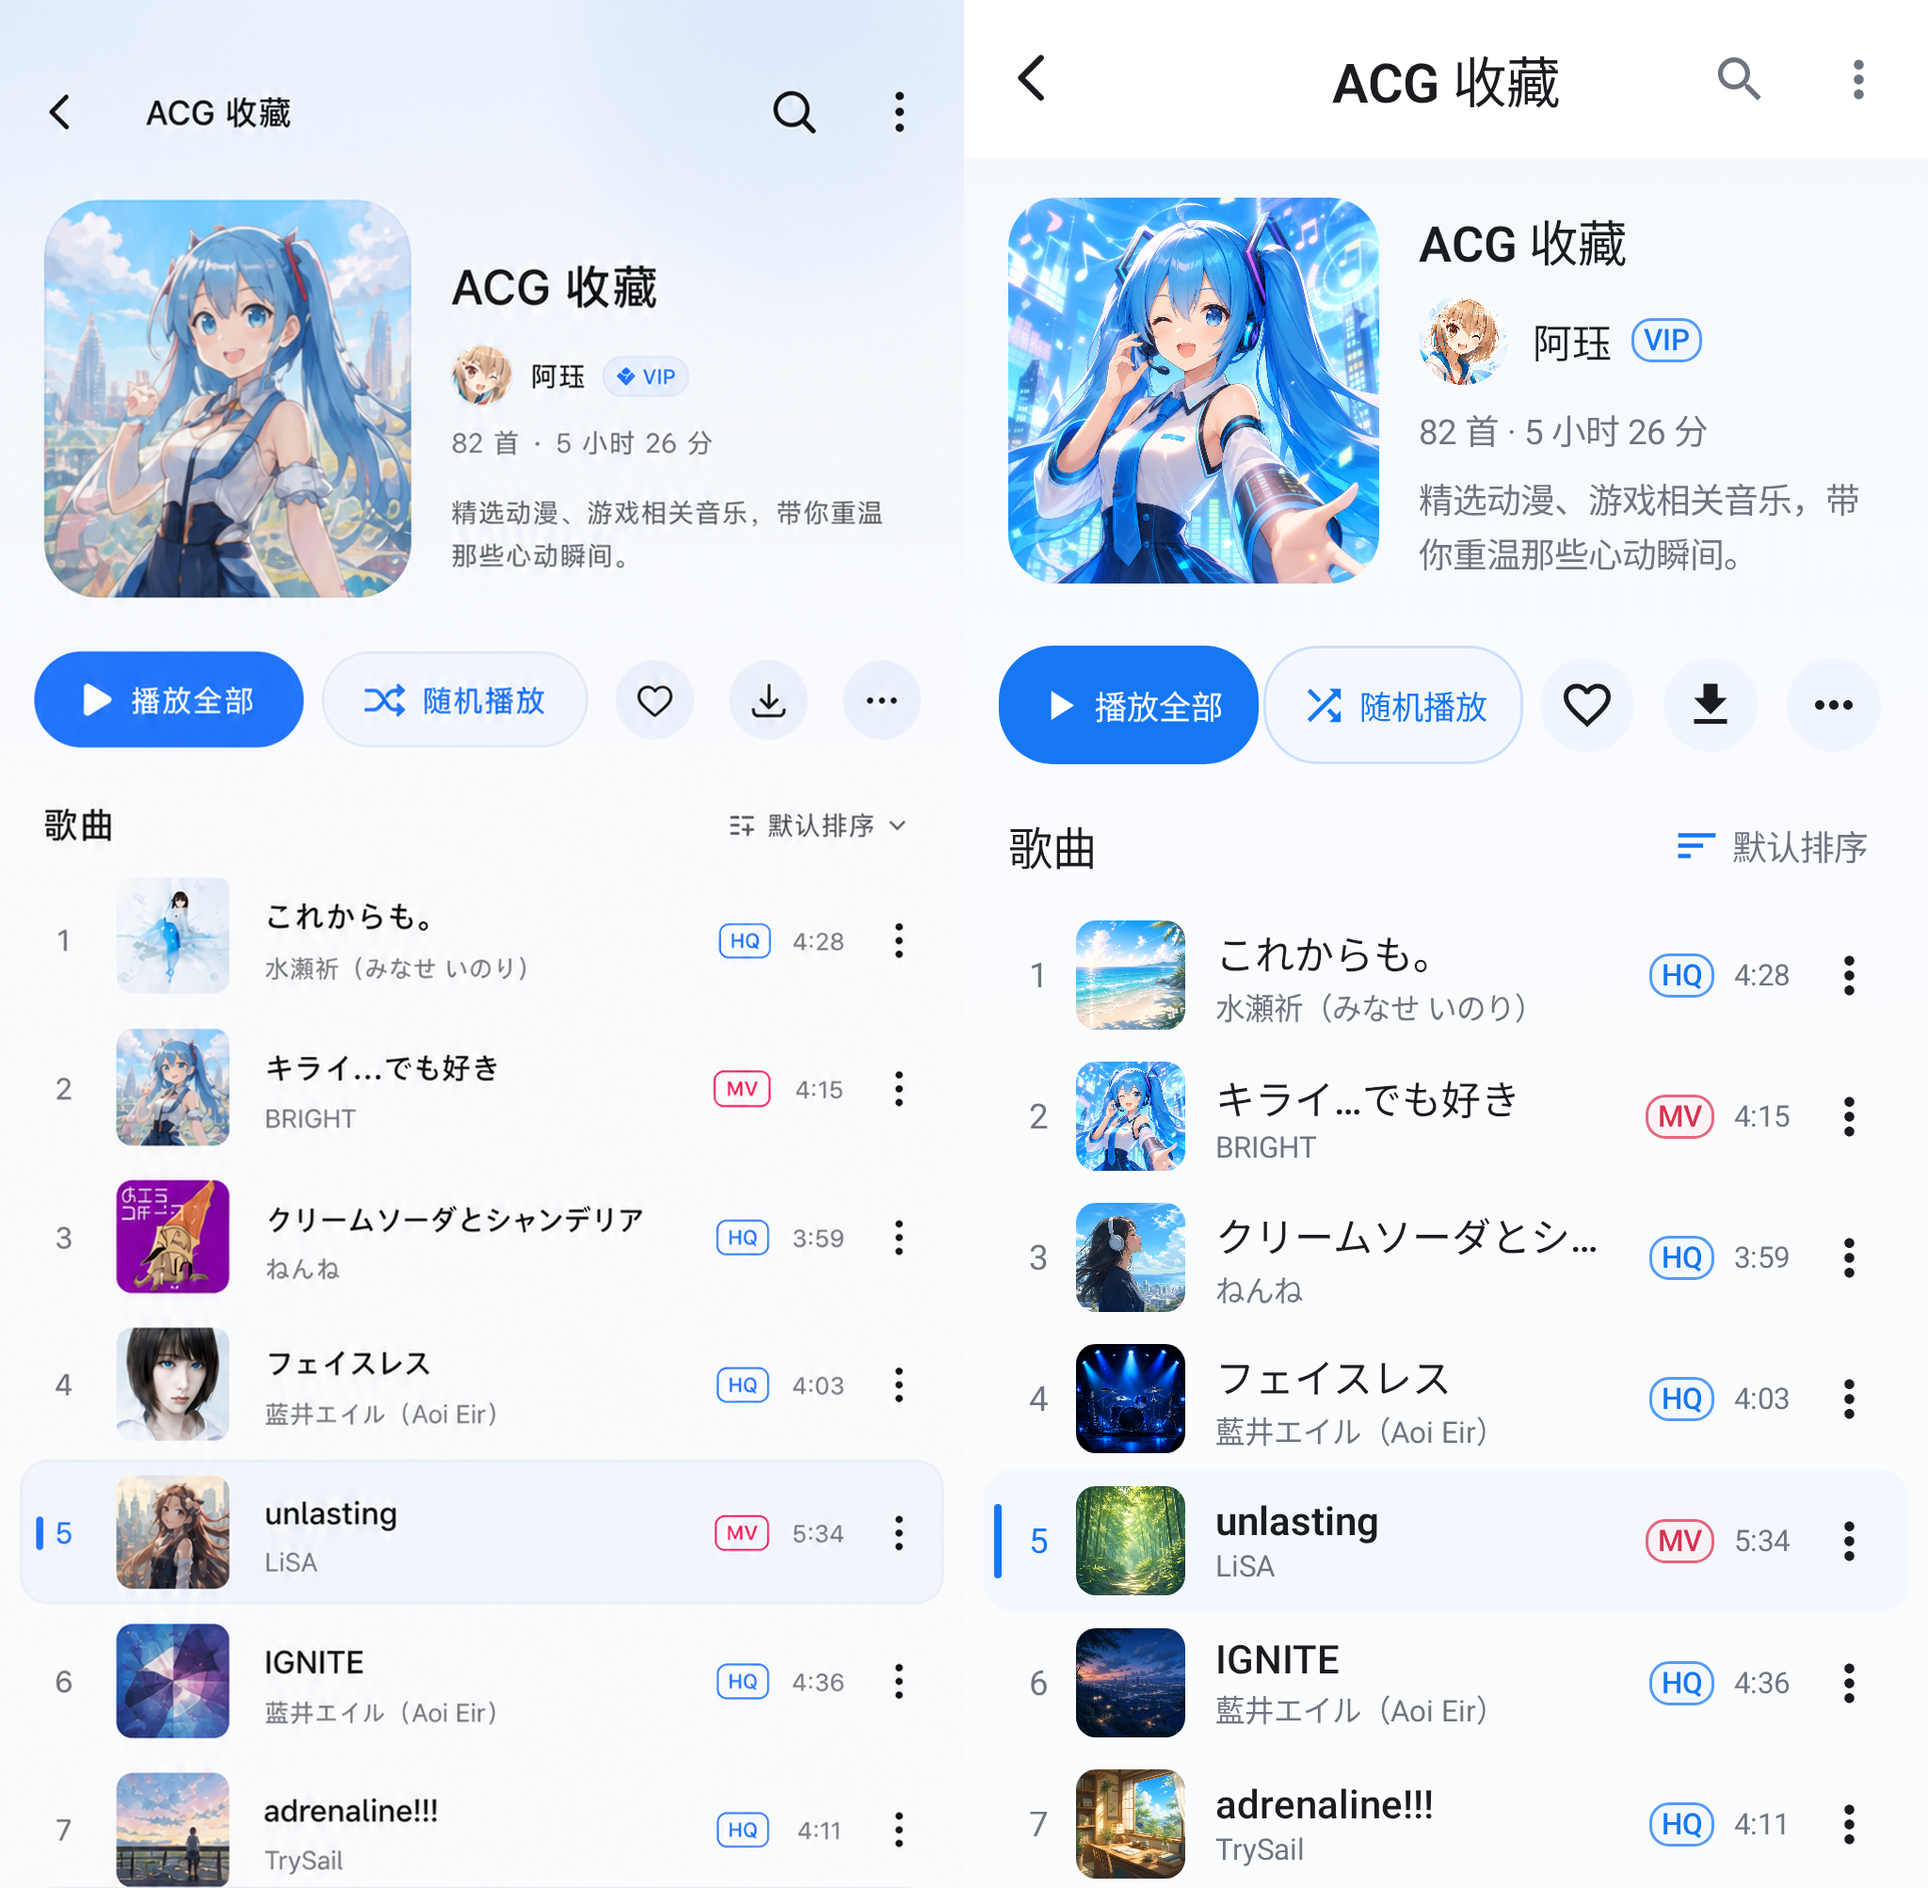
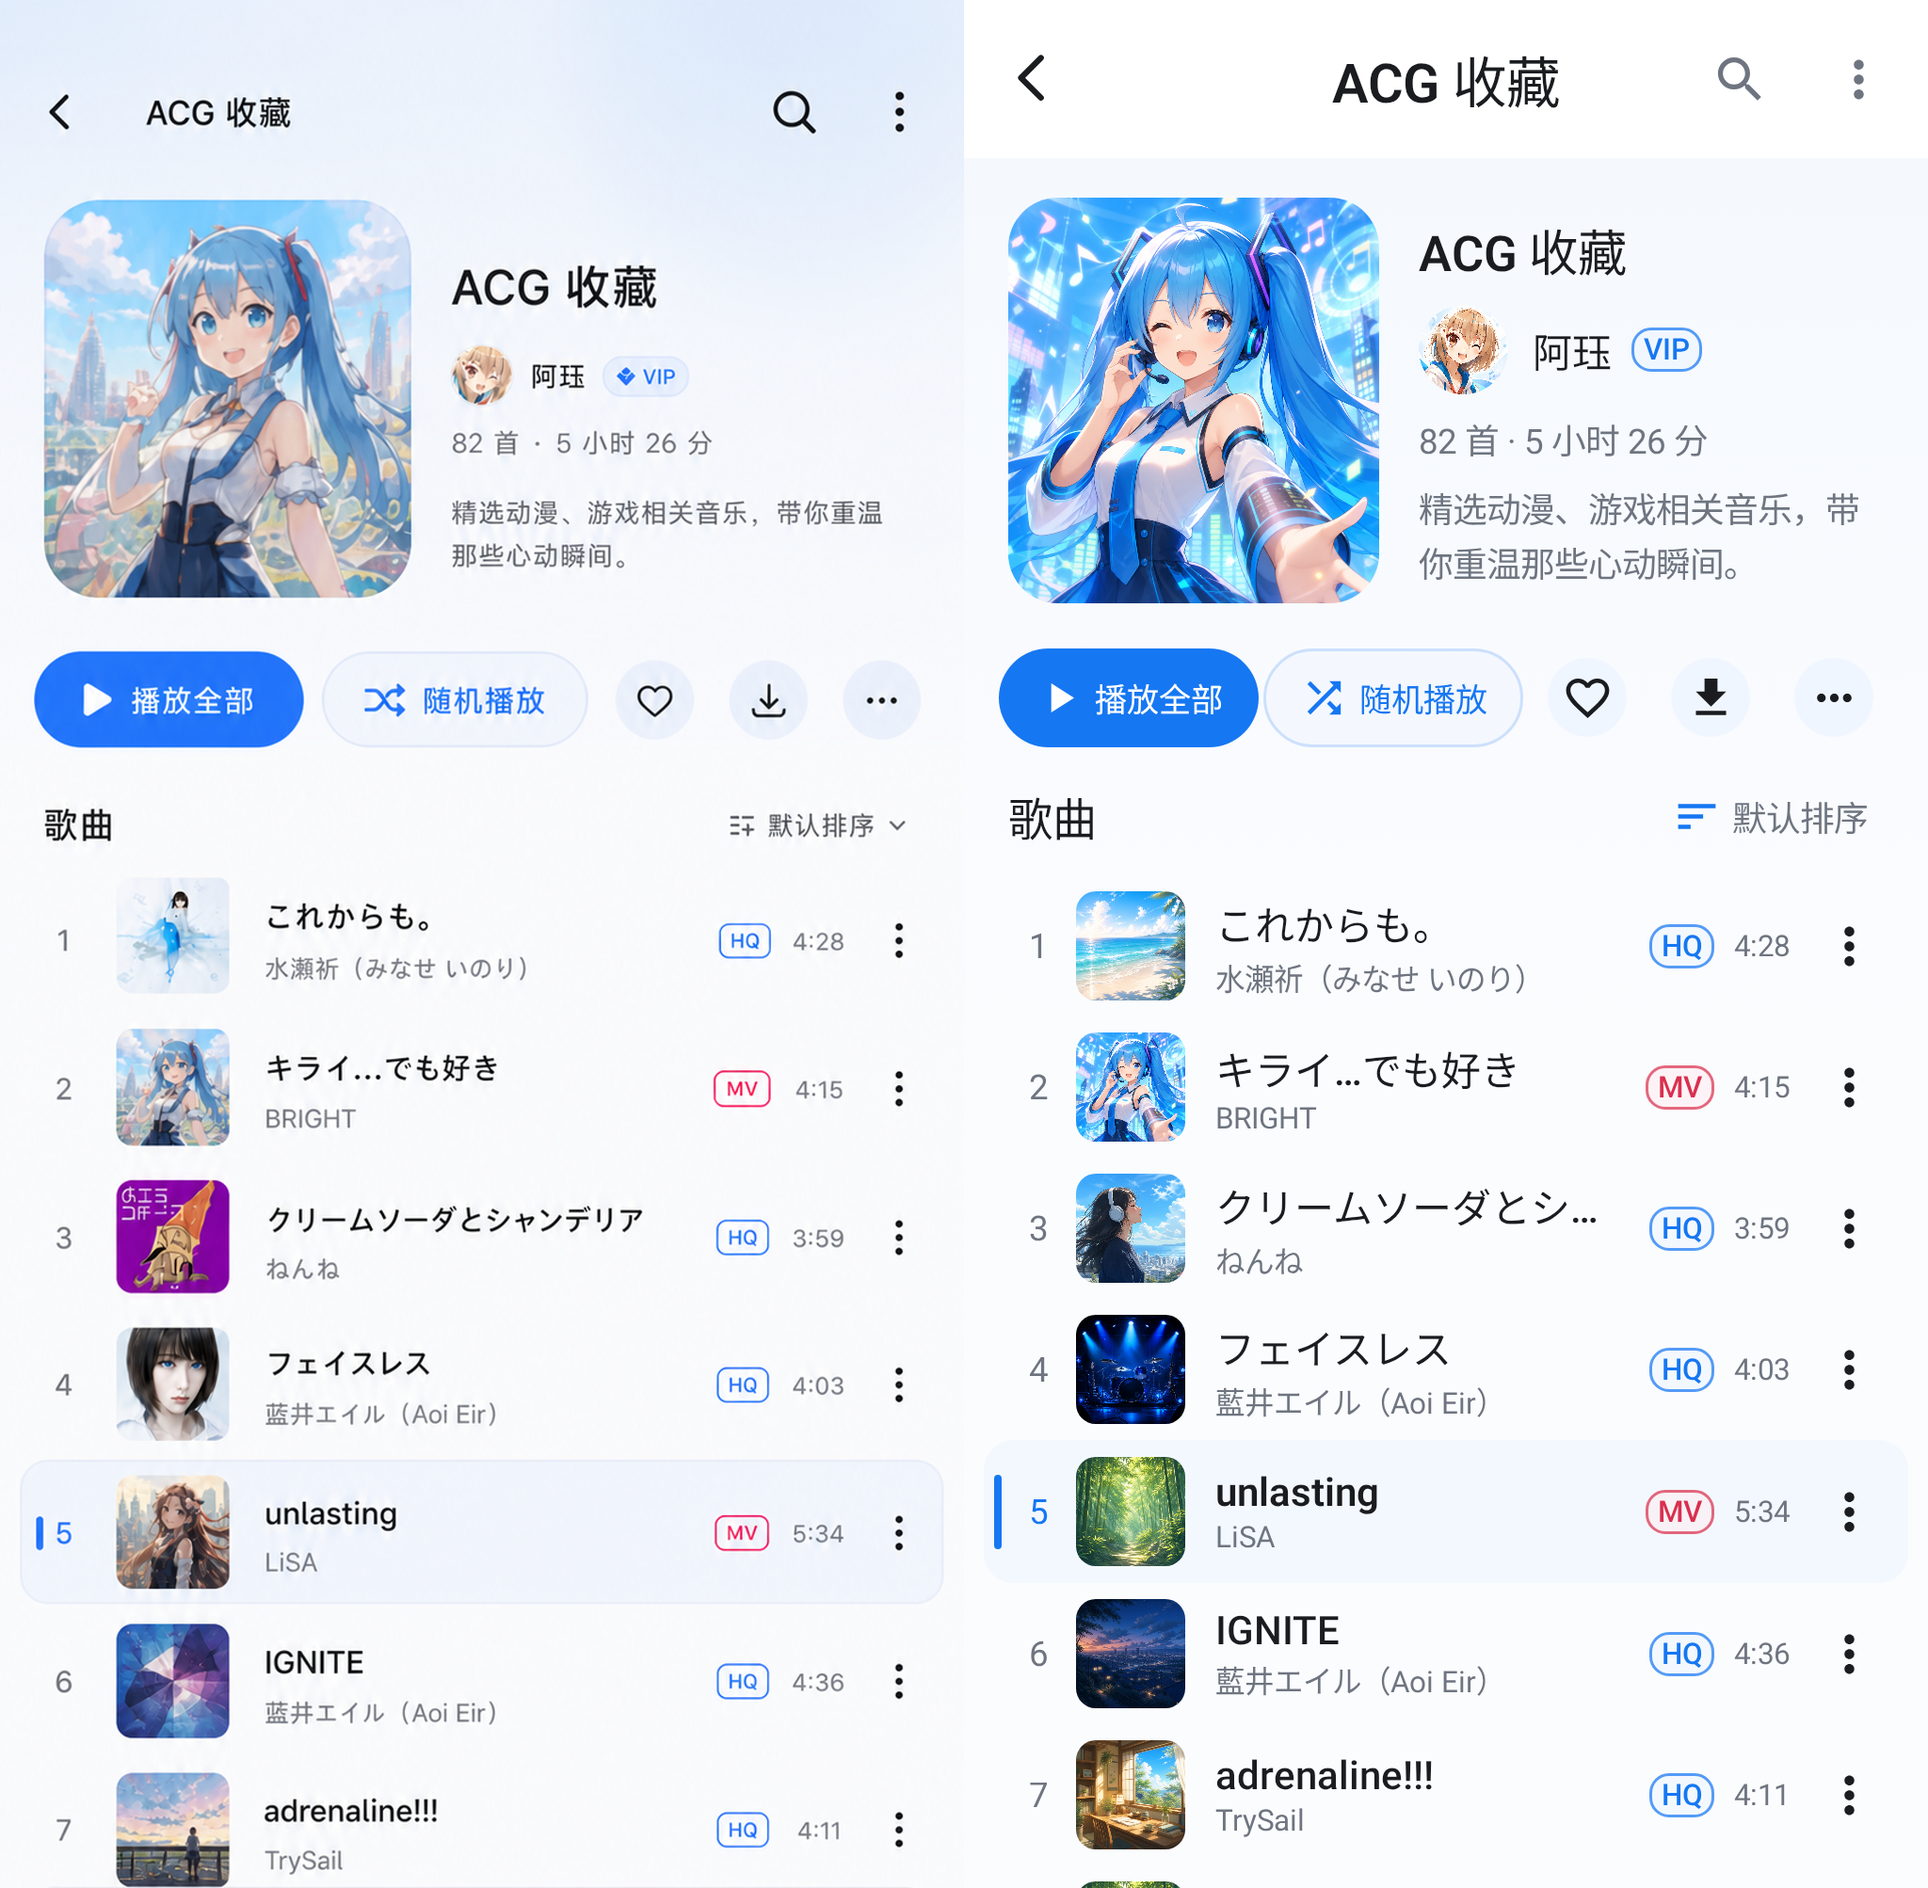
fix(playlist): align confirmed detail actions

diff --git a/feature/playlist/src/main/kotlin/cn/james/music/feature/playlist/PlaylistDetailScreen.kt b/feature/playlist/src/main/kotlin/cn/james/music/feature/playlist/PlaylistDetailScreen.kt
@@ -35,12 +35,10 @@ import androidx.compose.material.icons.filled.Refresh
 import androidx.compose.material.icons.filled.Search
 import androidx.compose.material.icons.filled.Shuffle
 import androidx.compose.material3.Button
-import androidx.compose.material3.ButtonDefaults
 import androidx.compose.material3.CircularProgressIndicator
 import androidx.compose.material3.Icon
 import androidx.compose.material3.IconButton
 import androidx.compose.material3.MaterialTheme
-import androidx.compose.material3.OutlinedButton
 import androidx.compose.material3.Scaffold
 import androidx.compose.material3.Surface
 import androidx.compose.material3.Text
@@ -223,7 +221,7 @@ private fun PlaylistSummary(playlist: PlaylistDetailUi) {
         }
     } else {
         Row(
-            modifier = Modifier.fillMaxWidth().height(188.dp).padding(horizontal = 18.dp, vertical = 16.dp),
+            modifier = Modifier.fillMaxWidth().height(188.dp).padding(start = 18.dp, top = 16.dp, end = 18.dp, bottom = 8.dp),
             verticalAlignment = Alignment.CenterVertically,
         ) {
             PlaylistCover(playlist, Modifier.width(150.dp).height(164.dp))
@@ -349,7 +347,7 @@ private fun PlaylistActions(
         return
     }
     Row(
-        modifier = Modifier.fillMaxWidth().height(66.dp).padding(horizontal = 14.dp, vertical = 8.dp),
+        modifier = Modifier.fillMaxWidth().height(54.dp).padding(start = 14.dp, top = 6.dp, end = 14.dp),
         horizontalArrangement = Arrangement.spacedBy(2.dp),
         verticalAlignment = Alignment.CenterVertically,
     ) {
@@ -378,19 +376,29 @@ private fun PlaylistPlayButton(
     onClick: () -> Unit,
     modifier: Modifier,
 ) {
-    Button(
-        onClick = onClick,
-        modifier = modifier.height(48.dp),
-        shape = RoundedCornerShape(22.dp),
-        contentPadding = PaddingValues(horizontal = 4.dp),
+    Box(
+        modifier = modifier.height(48.dp).clickable(role = Role.Button, onClick = onClick),
+        contentAlignment = Alignment.Center,
     ) {
-        Icon(Icons.Default.PlayArrow, contentDescription = null, modifier = Modifier.size(20.dp))
-        Text(
-            stringResource(R.string.playlist_detail_play_all),
-            modifier = Modifier.padding(start = 4.dp),
-            fontSize = 13.sp,
-            maxLines = 1,
-        )
+        Surface(
+            modifier = Modifier.fillMaxWidth().height(40.dp),
+            shape = RoundedCornerShape(20.dp),
+            color = MaterialTheme.colorScheme.primary,
+            contentColor = MaterialTheme.colorScheme.onPrimary,
+        ) {
+            Row(
+                horizontalArrangement = Arrangement.Center,
+                verticalAlignment = Alignment.CenterVertically,
+            ) {
+                Icon(Icons.Default.PlayArrow, contentDescription = null, modifier = Modifier.size(20.dp))
+                Text(
+                    stringResource(R.string.playlist_detail_play_all),
+                    modifier = Modifier.padding(start = 4.dp),
+                    fontSize = 13.sp,
+                    maxLines = 1,
+                )
+            }
+        }
     }
 }
 
@@ -399,25 +407,30 @@ private fun PlaylistShuffleButton(
     onClick: () -> Unit,
     modifier: Modifier,
 ) {
-    OutlinedButton(
-        onClick = onClick,
-        modifier = modifier.height(48.dp),
-        shape = RoundedCornerShape(22.dp),
-        contentPadding = PaddingValues(horizontal = 4.dp),
-        border = BorderStroke(1.dp, MaterialTheme.colorScheme.primary.copy(alpha = 0.18f)),
-        colors =
-            ButtonDefaults.outlinedButtonColors(
-                containerColor = MaterialTheme.colorScheme.primaryContainer.copy(alpha = 0.28f),
-                contentColor = MaterialTheme.colorScheme.primary,
-            ),
+    Box(
+        modifier = modifier.height(48.dp).clickable(role = Role.Button, onClick = onClick),
+        contentAlignment = Alignment.Center,
     ) {
-        Icon(Icons.Default.Shuffle, contentDescription = null, modifier = Modifier.size(20.dp))
-        Text(
-            stringResource(R.string.playlist_detail_shuffle),
-            modifier = Modifier.padding(start = 4.dp),
-            fontSize = 13.sp,
-            maxLines = 1,
-        )
+        Surface(
+            modifier = Modifier.fillMaxWidth().height(40.dp),
+            shape = RoundedCornerShape(20.dp),
+            color = MaterialTheme.colorScheme.primaryContainer.copy(alpha = 0.28f),
+            contentColor = MaterialTheme.colorScheme.primary,
+            border = BorderStroke(1.dp, MaterialTheme.colorScheme.primary.copy(alpha = 0.18f)),
+        ) {
+            Row(
+                horizontalArrangement = Arrangement.Center,
+                verticalAlignment = Alignment.CenterVertically,
+            ) {
+                Icon(Icons.Default.Shuffle, contentDescription = null, modifier = Modifier.size(20.dp))
+                Text(
+                    stringResource(R.string.playlist_detail_shuffle),
+                    modifier = Modifier.padding(start = 4.dp),
+                    fontSize = 13.sp,
+                    maxLines = 1,
+                )
+            }
+        }
     }
 }
 
@@ -427,15 +440,16 @@ private fun PlaylistCircleAction(
     contentDescription: String,
     onClick: () -> Unit,
 ) {
-    Box(modifier = Modifier.size(48.dp), contentAlignment = Alignment.Center) {
+    Box(
+        modifier = Modifier.size(48.dp).clickable(role = Role.Button, onClick = onClick),
+        contentAlignment = Alignment.Center,
+    ) {
         Surface(
-            modifier = Modifier.size(38.dp),
+            modifier = Modifier.size(32.dp),
             shape = CircleShape,
             color = MaterialTheme.colorScheme.primaryContainer.copy(alpha = 0.5f),
         ) {}
-        IconButton(onClick = onClick, modifier = Modifier.size(48.dp)) {
-            Icon(icon, contentDescription = contentDescription, modifier = Modifier.size(23.dp))
-        }
+        Icon(icon, contentDescription = contentDescription, modifier = Modifier.size(21.dp))
     }
 }
 
